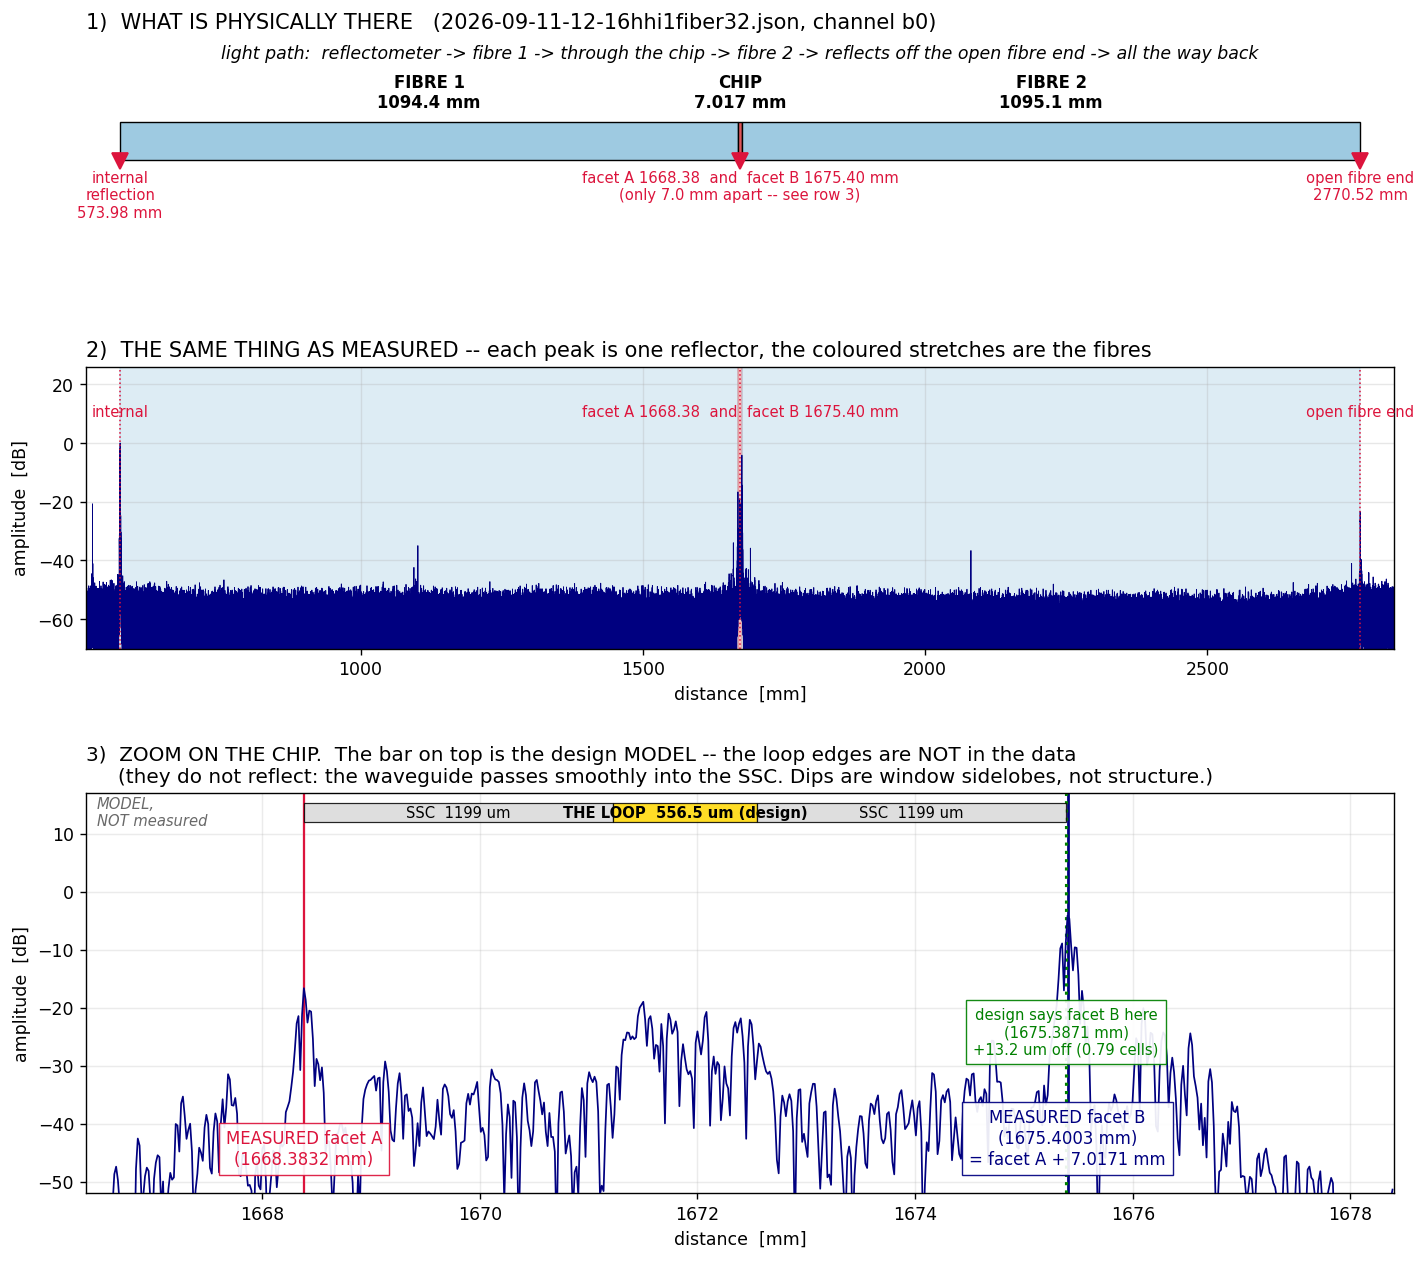
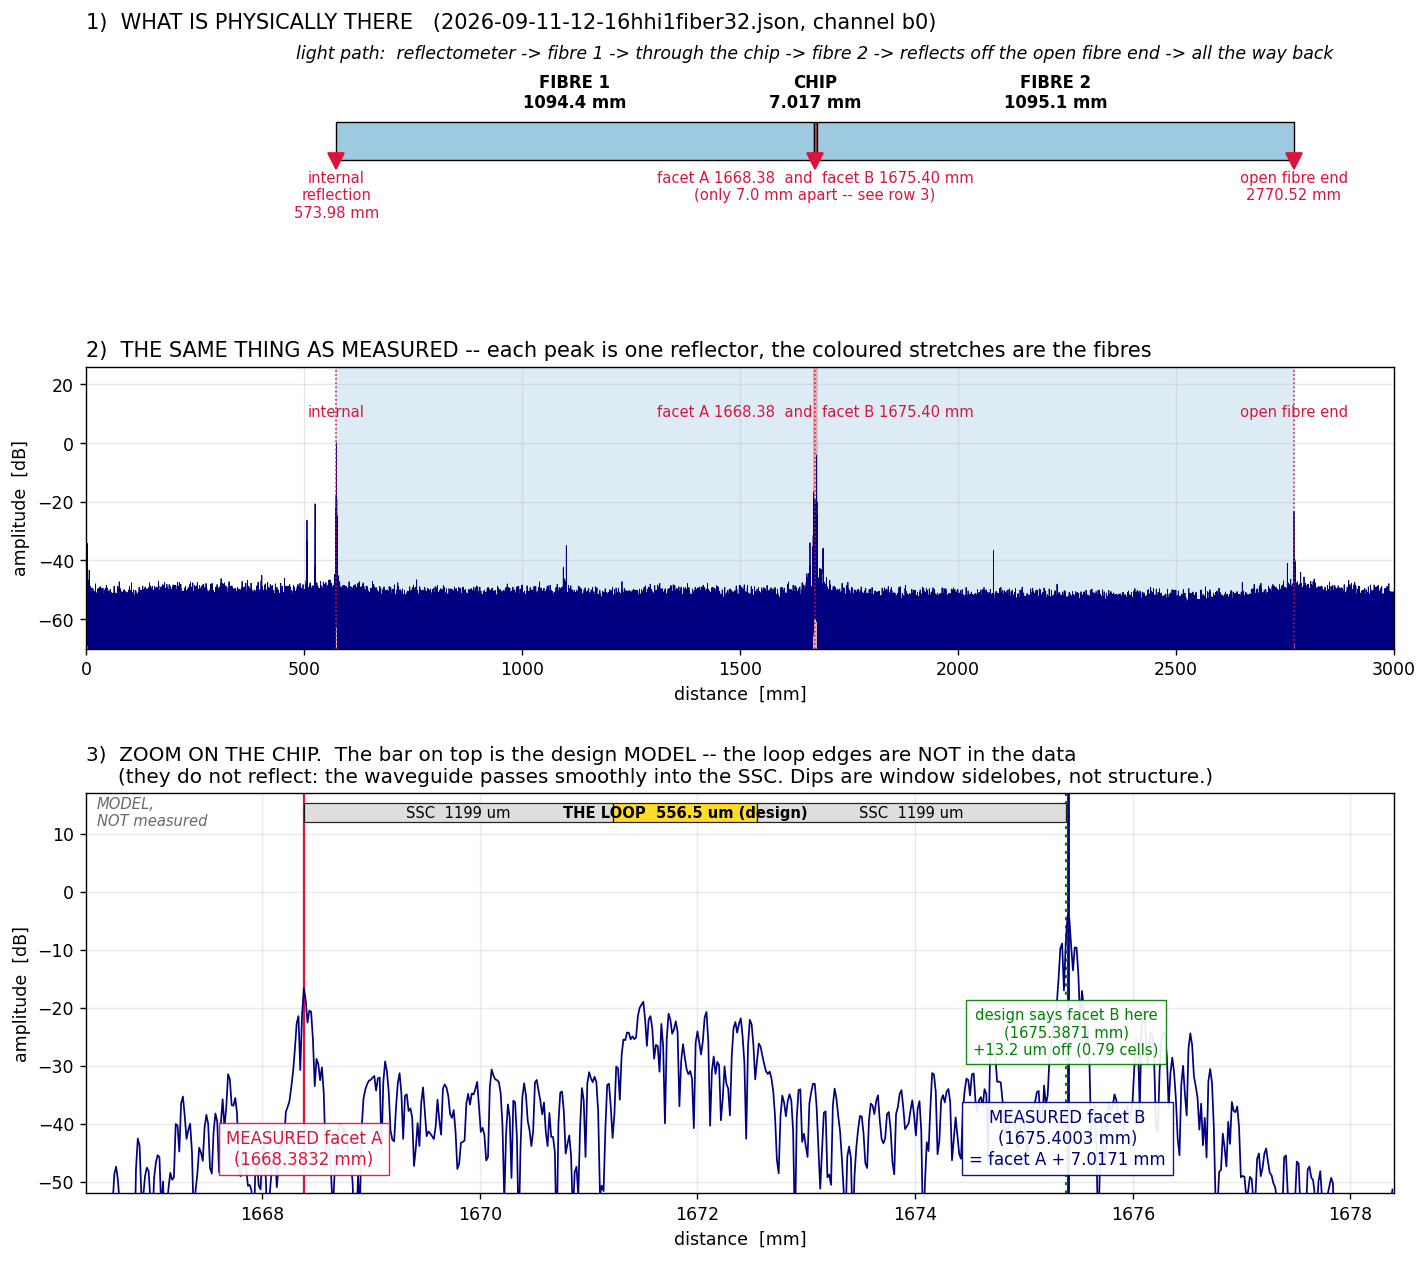
chain plot panel 2: x-axis from 0 in 500 mm steps
Panel 2 now starts at 0 and ticks every 500 mm, with the upper limit
rounded up to the next full 500 mm. Panel 1 (the schematic) is put on the
same range so the two rows line up -- they are meant to show the same
thing, once drawn and once measured.

Regenerated for all seven chip scans.

diff --git a/tools/identify_chip_scan.py b/tools/identify_chip_scan.py
@@ -205,7 +205,7 @@ def chain_plot(a, z, db, ref, za, zb, d_ff, d_loop, res_mm, marks=None):
     # ---------------------------------------------------------- Reihe 1
     ax = fig.add_subplot(gs[0])
     ax.axis("off")
-    ax.set_xlim(ref - 60, end + 60)
+    ax.set_xlim(0, 500.0 * np.ceil((end + 60) / 500.0))
     ax.set_ylim(-1.2, 1.5)
     segs = [(ref, za, "#9ecae1", "FIBRE 1\n%.1f mm" % (za - ref))]
     if zb is not None:
@@ -240,7 +240,8 @@ def chain_plot(a, z, db, ref, za, zb, d_ff, d_loop, res_mm, marks=None):
 
     # ---------------------------------------------------------- Reihe 2
     ax = fig.add_subplot(gs[1])
-    w = (z > ref - 60) & (z < end + 60)
+    xhi = 500.0 * np.ceil((end + 60) / 500.0)     # auf volle 500 mm aufrunden
+    w = (z >= 0) & (z <= xhi)
     ax.plot(z[w], db[w], lw=.5, color="navy")
     for x0, x1, c, lab in segs:
         ax.axvspan(x0, x1, color=c, alpha=.35, zorder=0)
@@ -248,7 +249,8 @@ def chain_plot(a, z, db, ref, za, zb, d_ff, d_loop, res_mm, marks=None):
         ax.axvline(x, color="crimson", ls=":", lw=.9)
         ax.annotate(lab.split("\n")[0], (x, 8), fontsize=8.5, ha="center",
                     va="bottom", color="crimson")
-    ax.set_xlim(ref - 60, end + 60)
+    ax.set_xlim(0, xhi)
+    ax.set_xticks(np.arange(0, xhi + 1, 500))
     ax.set_ylim(-70, 26)
     ax.set_xlabel("distance  [mm]")
     ax.set_ylabel("amplitude  [dB]")

diff --git a/logs/2026-09-14.md b/logs/2026-09-14.md
@@ -150,3 +150,10 @@
   = facet A + 7.1996 mm`), dazu die Designvorhersage mit ihrer eigenen
   mm-Angabe. Modellbalken und Bauteilmarken mitverschoben.
   Fuer alle sieben Chipscans neu erzeugt.
+
+- **Panel 2 des `_chain.png`: x-Achse beginnt jetzt bei 0 und laeuft in
+  500-mm-Schritten** (Obergrenze auf die naechsten vollen 500 mm
+  aufgerundet, Ticks per `np.arange(0, xhi+1, 500)`). Panel 1 (Schema)
+  auf denselben Bereich gezogen, damit die zwei Reihen uebereinander
+  lesbar bleiben -- sie sollen ja dasselbe zeigen, einmal gezeichnet und
+  einmal gemessen. Alle sieben Chipplots neu erzeugt.
